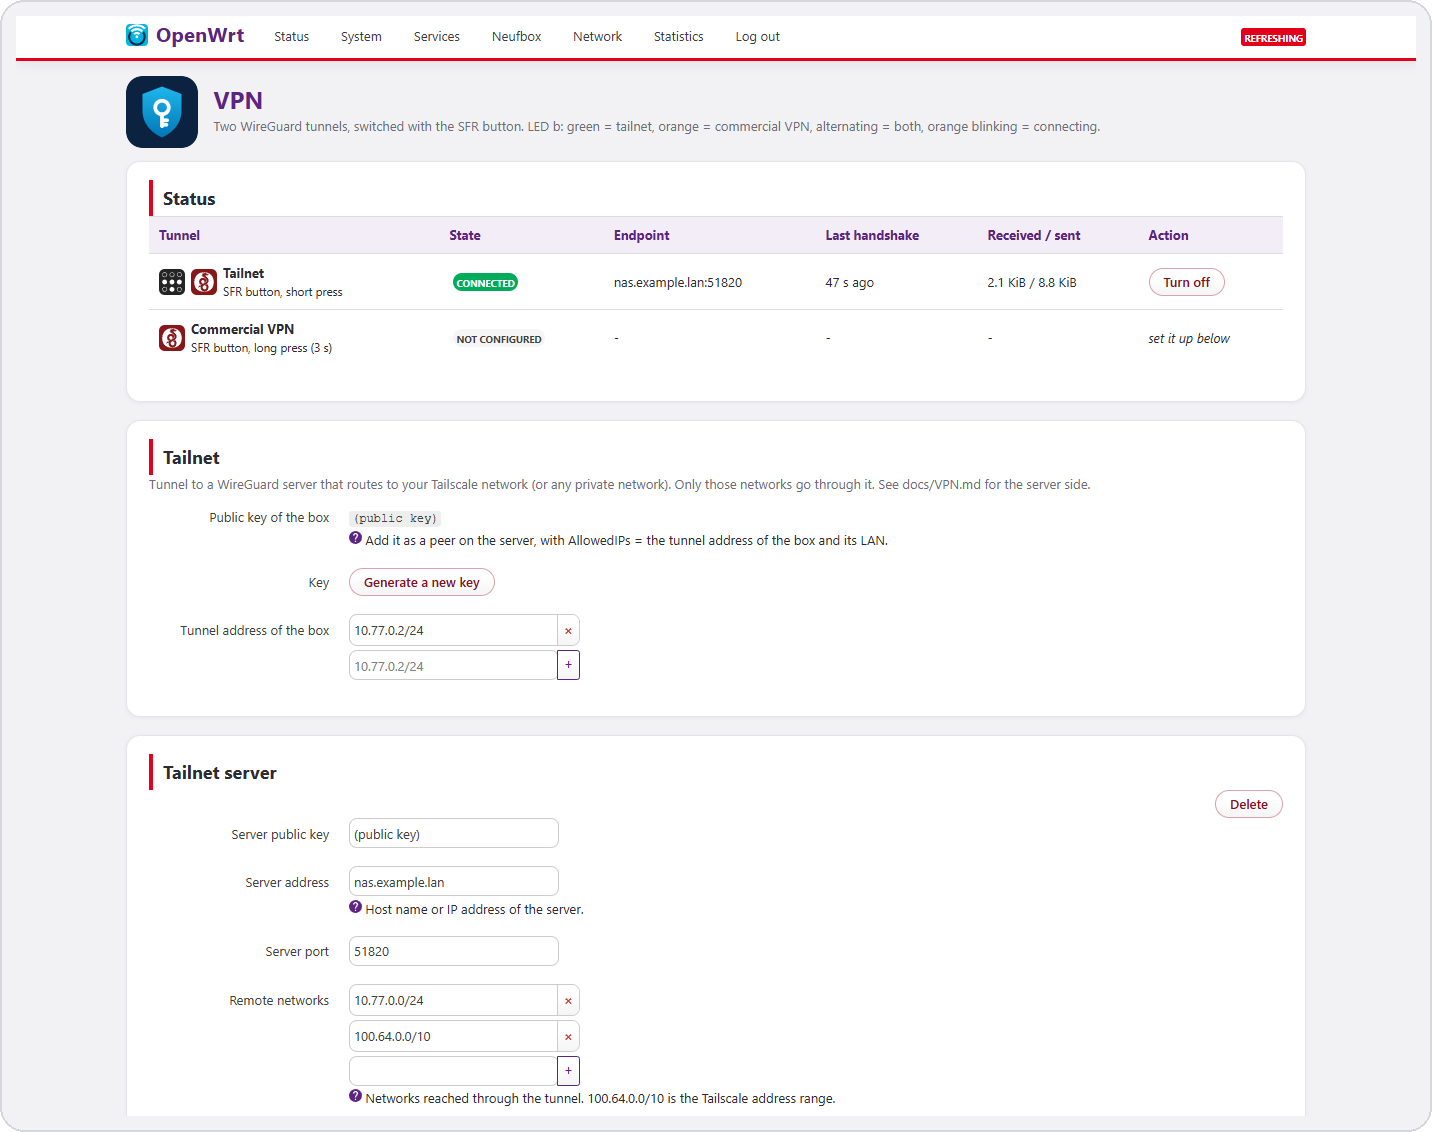
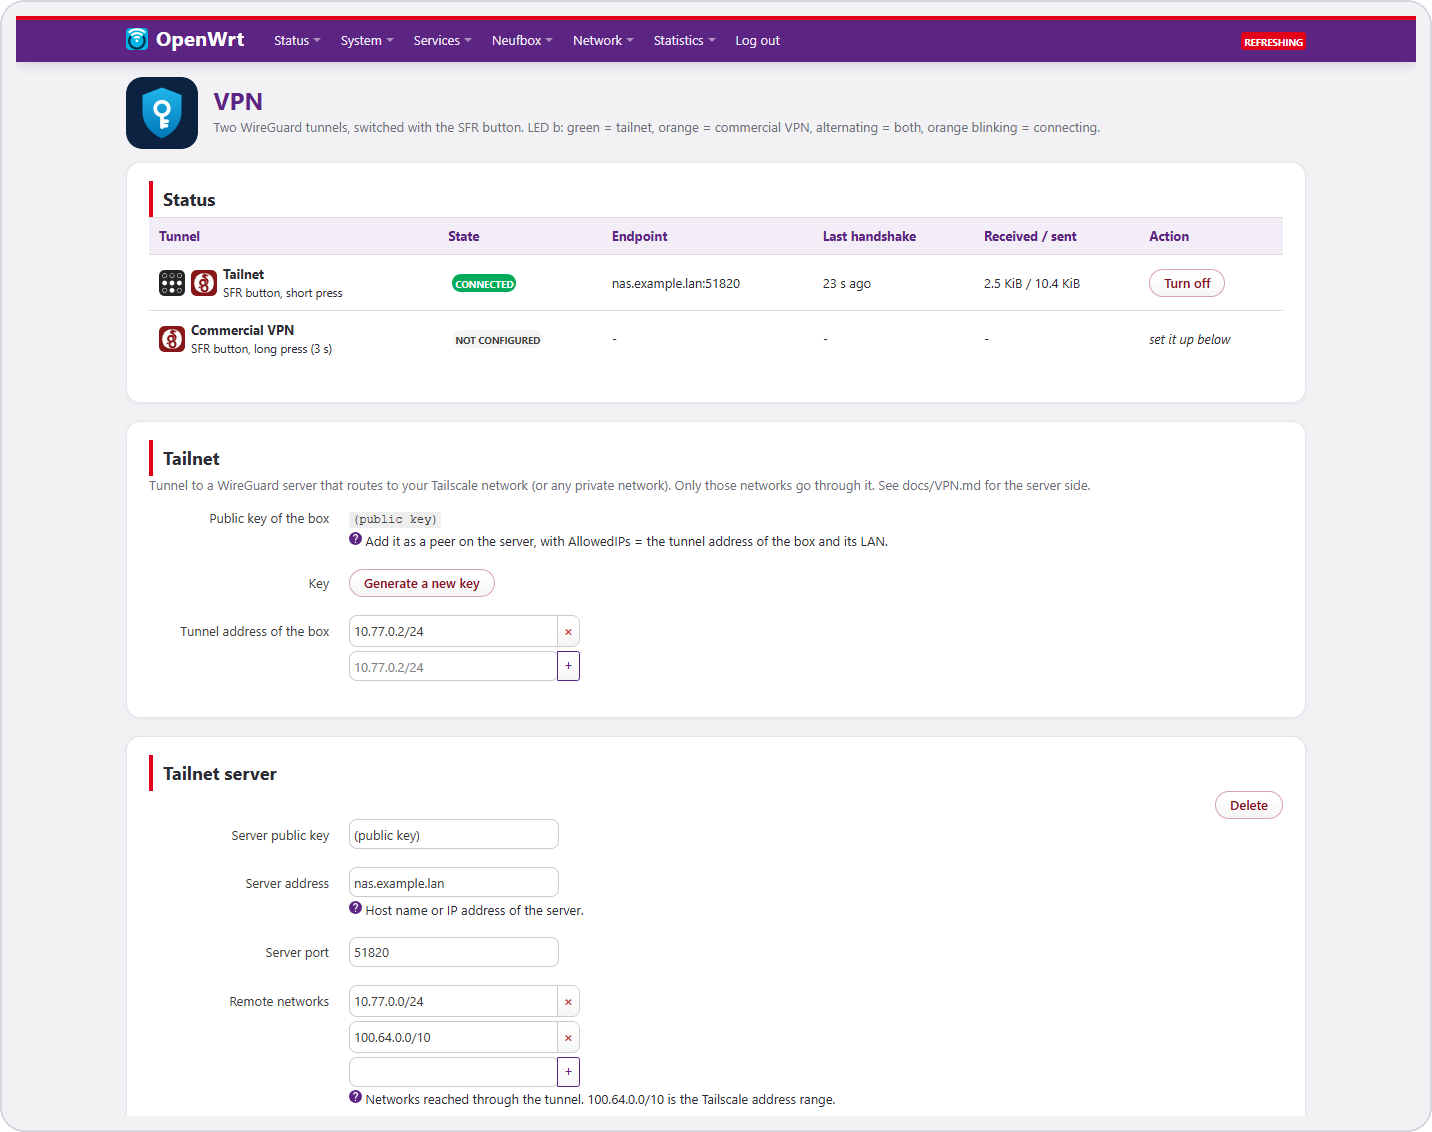
README: show the Home page and the purple menus

diff --git a/README.md b/README.md
@@ -71,9 +71,12 @@ provider (Mullvad, Proton VPN, NordVPN, ...). → **[docs/VPN.md](docs/VPN.md)**
 
 ## Web interface
 
-LuCI uses its own **Neufbox** theme (white, red and purple, always light), and the **Neufbox** menu shows both
-tunnels, imports a provider's WireGuard file, and sets the LEDs and eco mode. The standard bootstrap theme stays
-available in System > System > Language and Style.
+LuCI uses its own **Neufbox** theme (white pages, purple menus, red actions, always light). After login, the
+**Home** page shows the connection, the box, the VPN and the connected devices, with a photo of the box and the
+current state of its ring LEDs. The **Neufbox** menu shows both tunnels, imports a provider's WireGuard file,
+and sets the LEDs and eco mode. The standard bootstrap theme and overview stay available.
+
+<p align="center"><img src="assets/luci-home.png" alt="LuCI home page with the Neufbox theme" width="100%"></p>
 
 <p align="center"><img src="assets/luci-login.png" alt="LuCI login page with the Neufbox theme" width="46%"></p>
 
@@ -171,7 +174,8 @@ tools/             serial console, CFE, TFTP and GPIO helpers for flashing and p
 Third-party patches keep their original authorship and trailers. SFR firmware images and calibration files are **not**
 distributed here.
 
-Product photos of the Neufbox 6 in `assets/banner-openwrt.png`, `assets/leds-buttons.png`, `assets/hardware.png` and `assets/vpn.png`: © SFR,
+Product photos of the Neufbox 6 in `assets/banner-openwrt.png`, `assets/leds-buttons.png`, `assets/hardware.png`, `assets/vpn.png`, `assets/luci-home.png` and
+`files/www/luci-static/resources/nb6/box.png` (LuCI home page): © SFR,
 annotated for this project. Neufbox and SFR are trademarks of SFR; this project is not affiliated with SFR.
 Brand icons in the LuCI pages (`files/www/luci-static/resources/nb6/icons.js`), `assets/banner-openwrt.png` and `assets/vpn.png`: [Simple Icons](https://simpleicons.org), CC0 1.0;
 the names and logos are trademarks of their owners and only identify their services.

diff --git a/CHANGELOG.md b/CHANGELOG.md
@@ -2,7 +2,10 @@
 
 ## Unreleased
 ### Added
-- LuCI theme **Neufbox**: white, red and purple, always light, with a new login page; used by default
+- **Home** page (Status > Home, opened after login): connection, box, VPN, connected devices, and a
+  photo of the box with the current state of its ring LEDs. Data from `luci.nb6 home`;
+  `nb6-leds` publishes the LED states in `/tmp/nb6-leds.state`.
+- LuCI theme **Neufbox**: white pages, purple menus, red actions, always light, with a new login page; used by default
   (the bootstrap themes stay available). Built from bootstrap's templates by `scripts/apply-luci.sh`.
 
 ### Changed
